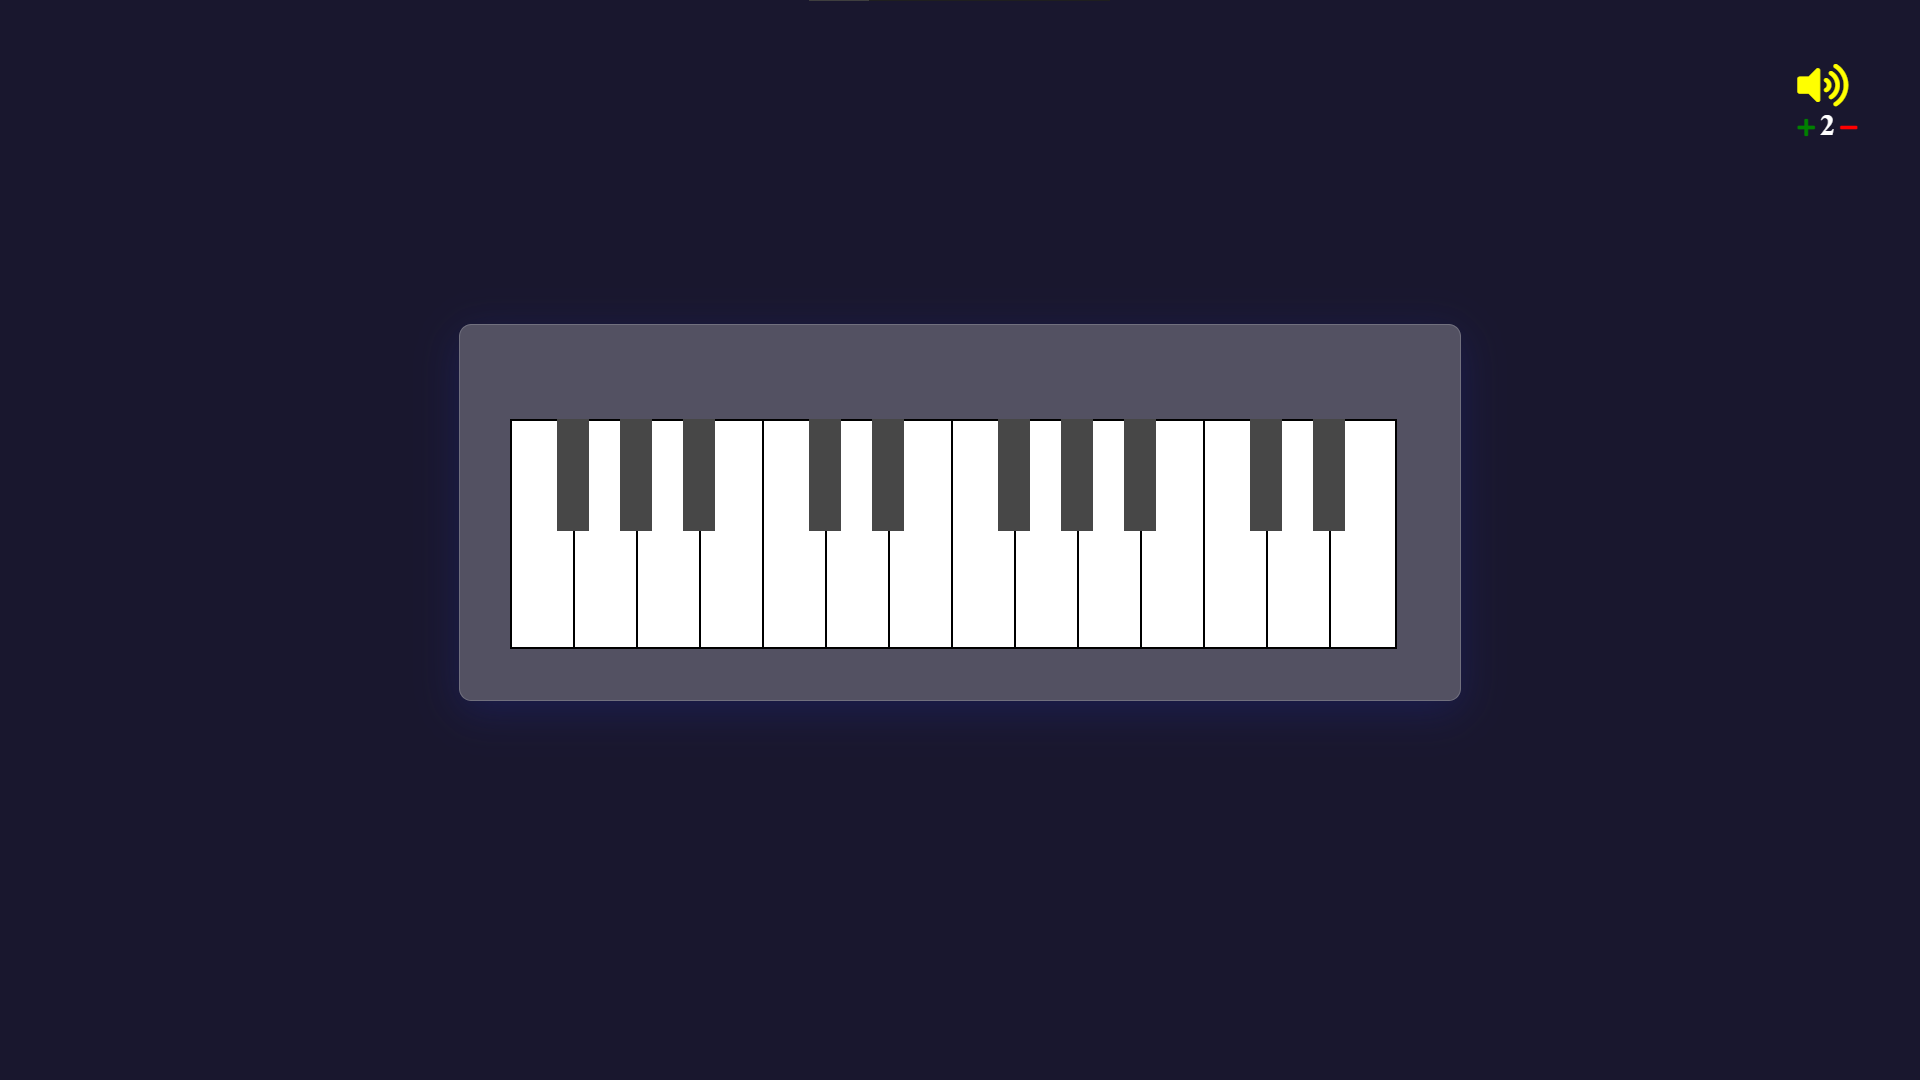
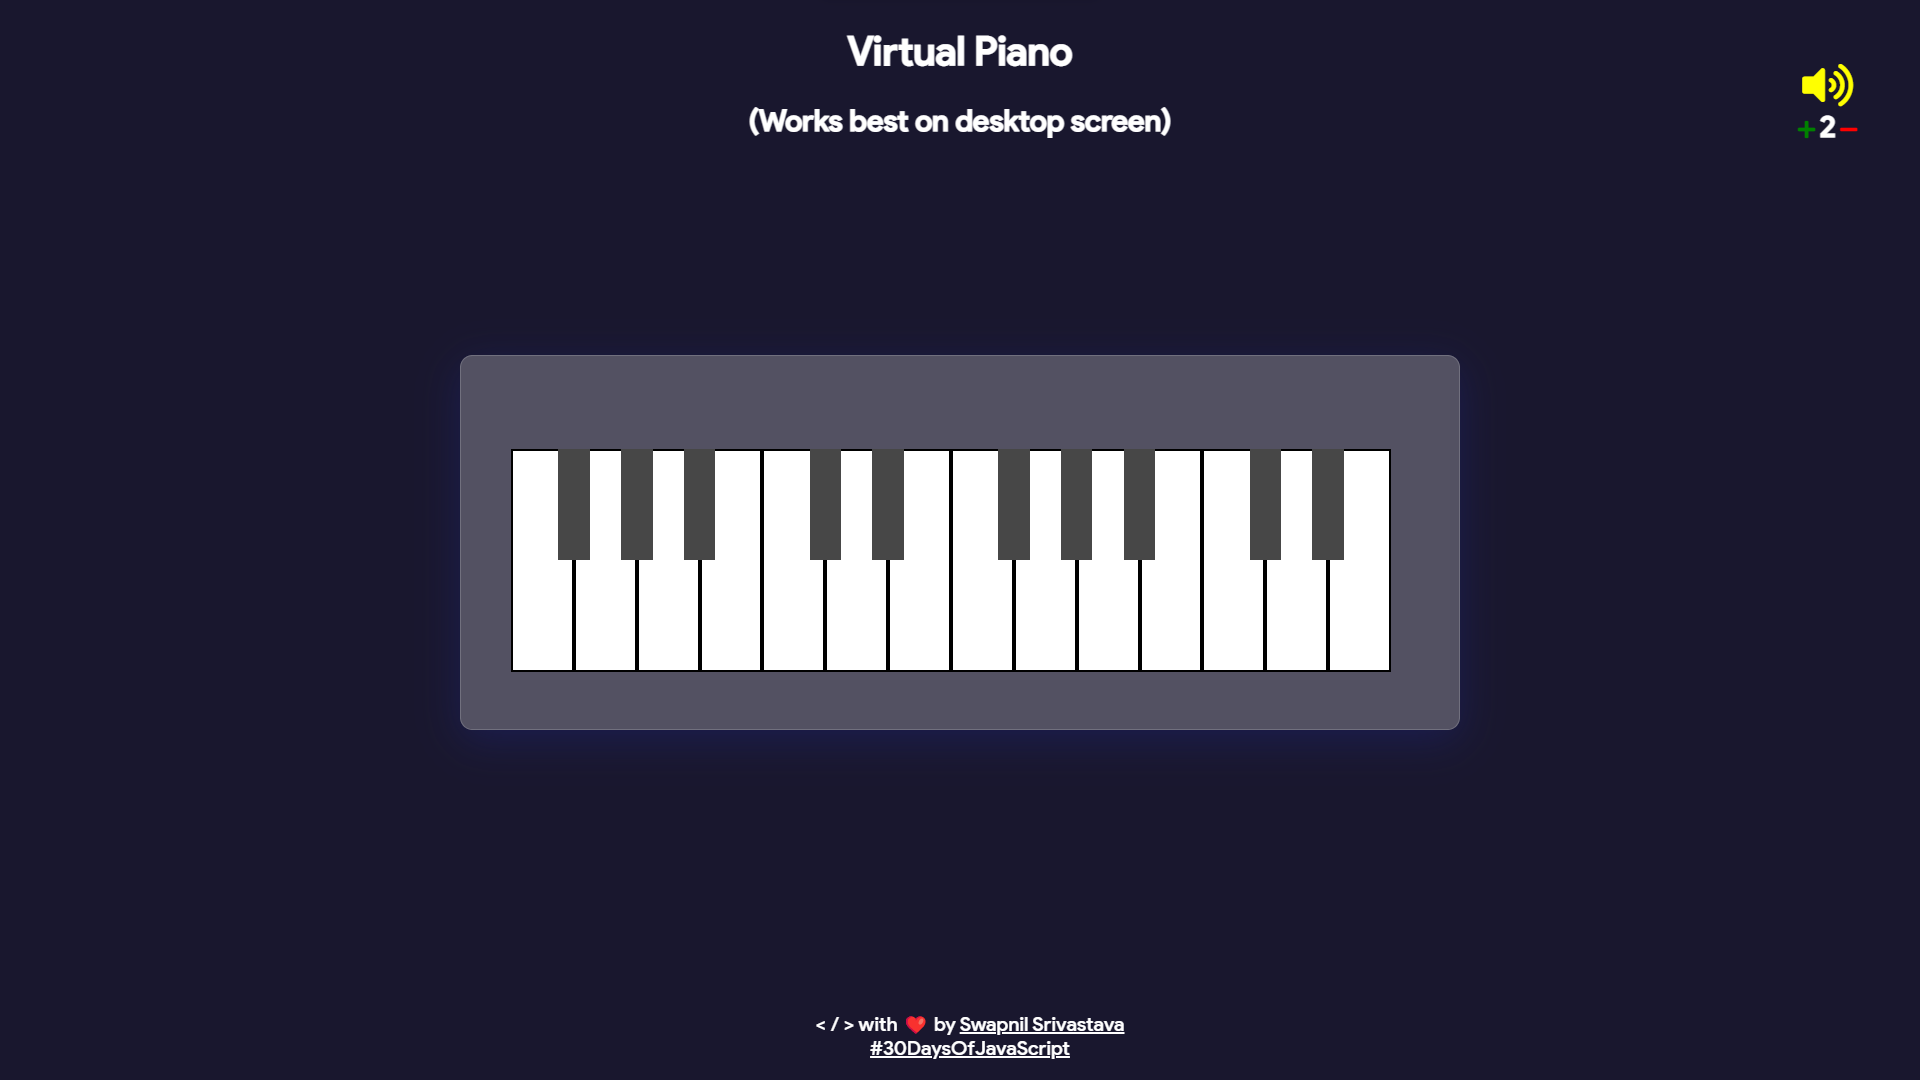
Made Responsive and changed UI

diff --git a/34 - Virtual Piano/style.css b/34 - Virtual Piano/style.css
@@ -1,11 +1,25 @@
+* {
+    padding: 0;
+    box-sizing: border-box;
+    font-family: "sans";
+}
+  
+@font-face {
+    font-family: "sans";
+    src: url(font/sans.ttf);
+}
+  
 body {
-    max-height: 100vh;
-    background-color: #19172e;
+    overflow: hidden;
+    background: #19172e;
+    color: #fff;
+    text-align: center;
+    min-height: 100vh;
 }
 
 #piano {
     margin: auto;
-    margin-top: 30vh;
+    margin-top: 20vh;
     width: 70%;
     max-width: 800px;
     height: 300px;
@@ -66,6 +80,16 @@ body {
     top: 50px;
 }
 
+@media screen and (max-width: 550px) {
+    #volumeBar{
+        position: absolute;
+        top: 150px;
+    }
+    #piano{
+        width: 100%;
+    }
+}
+
 .fa-volume-up {
     color: yellow;
     font-size: 36px;
@@ -87,3 +111,15 @@ body {
     user-select: none;
     color: white;
 }
+
+footer, a{
+    color: #fff;
+  }
+
+footer{
+    text-align: center;
+    position: absolute;
+    bottom: 0;
+    width: 100%;
+}
+  

diff --git a/34 - Virtual Piano/index.html b/34 - Virtual Piano/index.html
@@ -12,17 +12,29 @@
 </head>
 
 <body>
+    <h1>Virtual Piano</h1>
+    <h2>(Works best on desktop screen)</h2>
     <div id='volumeBar'>
         <div><i class="fas fa-volume-up"></i></div>
         <div>
             <i class="fas fa-plus"></i>
             <span id='volume'>2</span>
-            <i class="fas fa-minus"></i></div>
+            <i class="fas fa-minus"></i>
+        </div>
     </div>
 
     <div id='piano'>
         <div id='keys'></div>
     </div>
+
+    <footer>
+        <p>&#x3c; &#47; &#x3e; with ❤ by
+          <a href="https://swapnilsparsh.github.io/">Swapnil Srivastava</a>
+          <br>
+          <a href="https://github.com/swapnilsparsh/30DaysOfJavaScript" target="_blank">#30DaysOfJavaScript
+          </a>
+        </p>
+    </footer>
     <script src="app.js"></script>
 </body>
 
